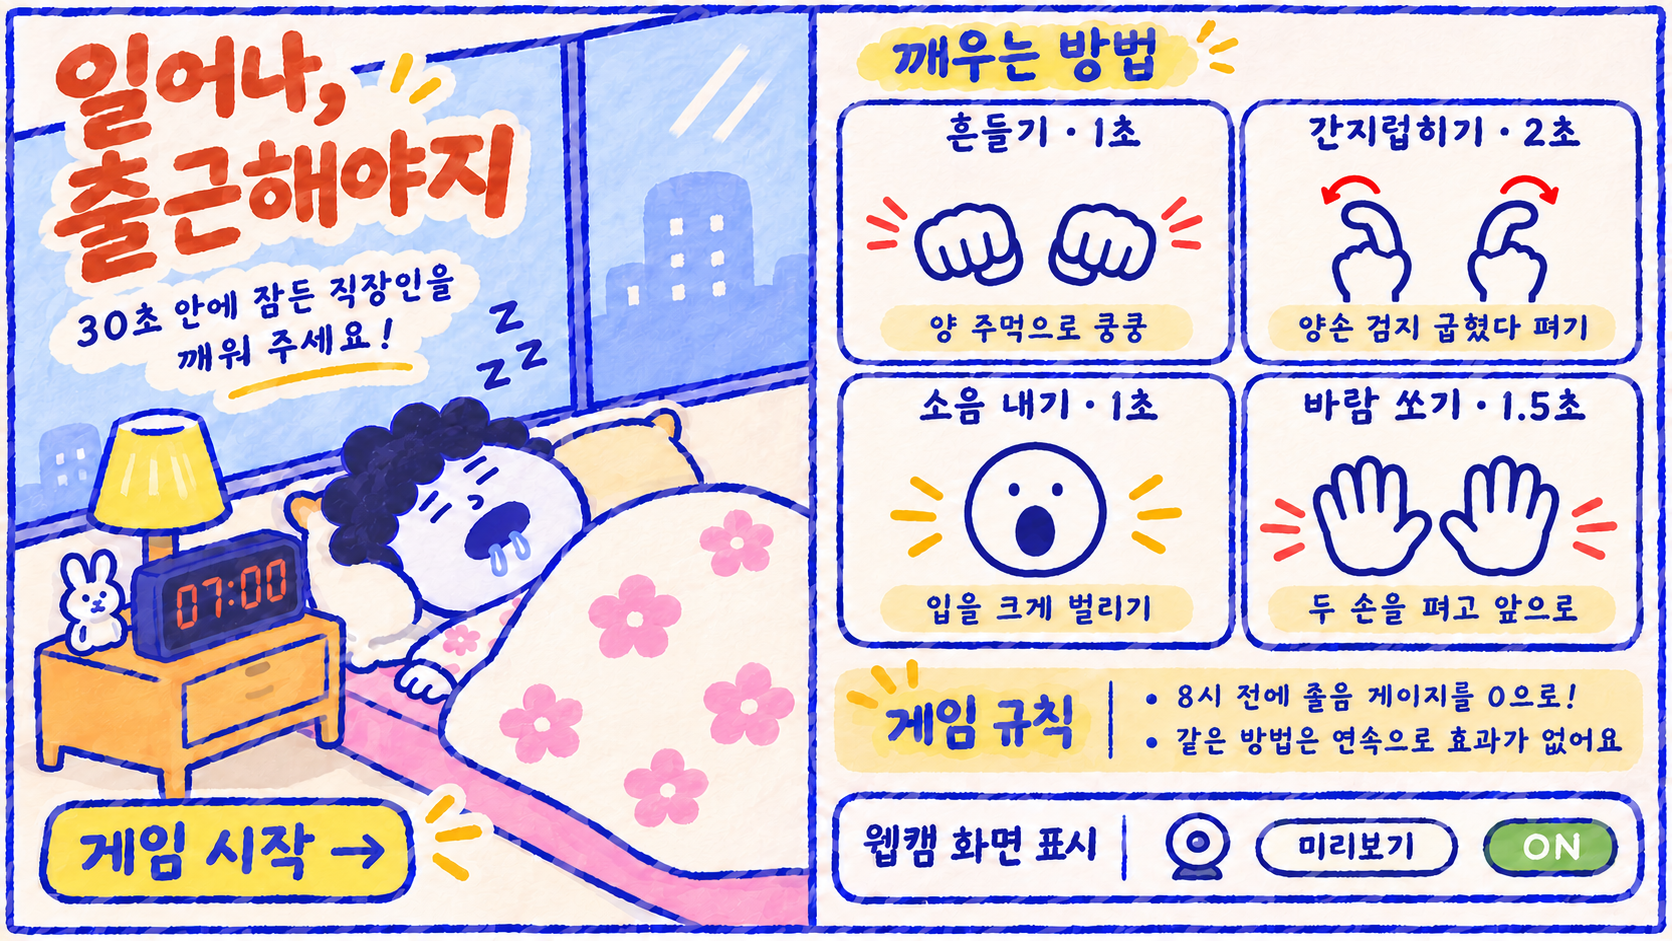
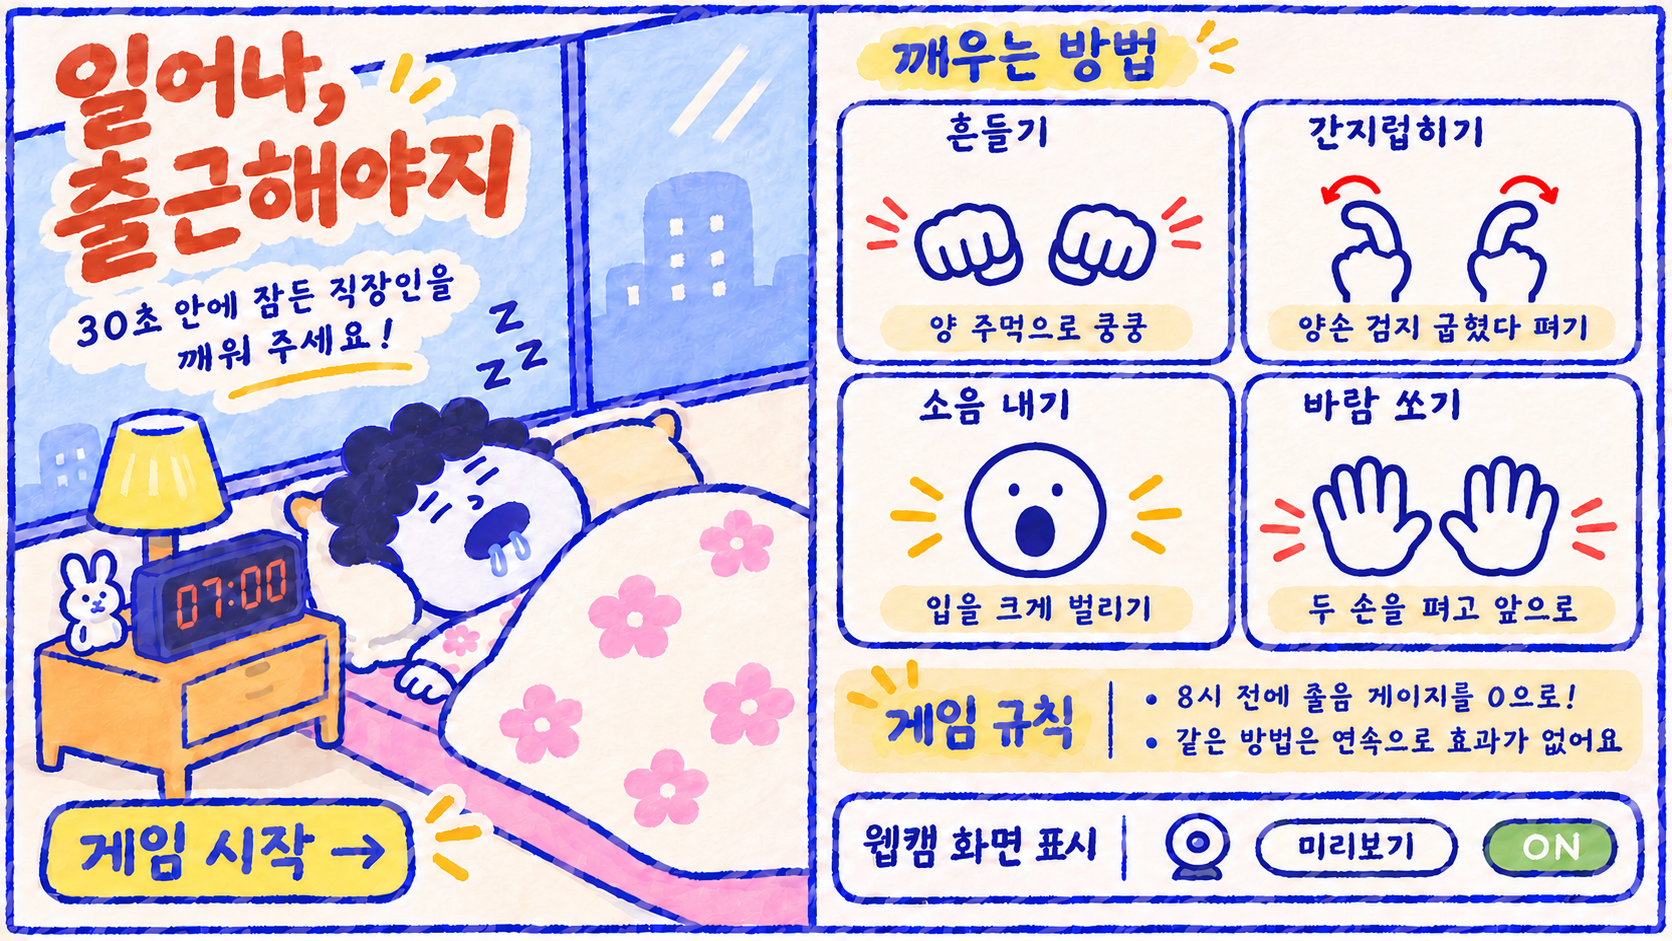
Remove duration labels from start screen

diff --git a/index.html b/index.html
@@ -11,7 +11,7 @@
   <link rel="stylesheet" href="game-screen.css?v=20261113-analog-audio1">
   <link rel="stylesheet" href="result-scene.css?v=20261113-analog-audio1">
   <link rel="stylesheet" href="analog-ui.css?v=gouache-start-1">
-  <link rel="preload" href="start-gouache.png" as="image">
+  <link rel="preload" href="start-gouache.png?v=2" as="image">
   <link rel="preload" href="game-room-shallow.webp" as="image">
   <link rel="preload" href="game-room-near-awake.webp" as="image">
   <link rel="preload" href="result-empty-bed.webp" as="image">
@@ -26,13 +26,13 @@
   <script src="hand-motion.js?v=20261113-analog-audio1" defer></script>
   <script src="face-motion.js?v=20261113-analog-audio1" defer></script>
   <script src="game-audio.js?v=20261113-analog-audio1" defer></script>
-  <script src="script.js?v=20261113-analog-audio1" defer></script>
+  <script src="script.js?v=gouache-start-2" defer></script>
 </head>
 <body class="on-start">
   <div class="shell">
     <main>
       <section class="start-screen" id="start-screen" aria-labelledby="game-title">
-        <img class="start-illustration" src="start-gouache.png" width="1672" height="941" alt="" aria-hidden="true">
+        <img class="start-illustration" src="start-gouache.png?v=2" width="1672" height="941" alt="" aria-hidden="true">
         <div class="start-hero">
           <h1 id="game-title">일어나,<br><span>출근해야지</span></h1>
           <p class="intro">30초 안에 잠든 직장인을 깨워 주세요!</p>

diff --git a/script.js b/script.js
@@ -80,10 +80,7 @@ for (const [index, gesture] of gestures.entries()) {
   guideMeta.className = "gesture-meta";
   const guideNumber = document.createElement("span");
   guideNumber.textContent = `0${index + 1}`;
-  const guideDuration = document.createElement("span");
-  guideDuration.className = "gesture-duration";
-  guideDuration.textContent = gesture.duration;
-  guideMeta.append(guideNumber, guideDuration);
+  guideMeta.append(guideNumber);
   const illustration = document.createElement("div");
   illustration.className = `gesture-art gesture-art-${gesture.id}`;
   illustration.setAttribute("aria-hidden", "true");
